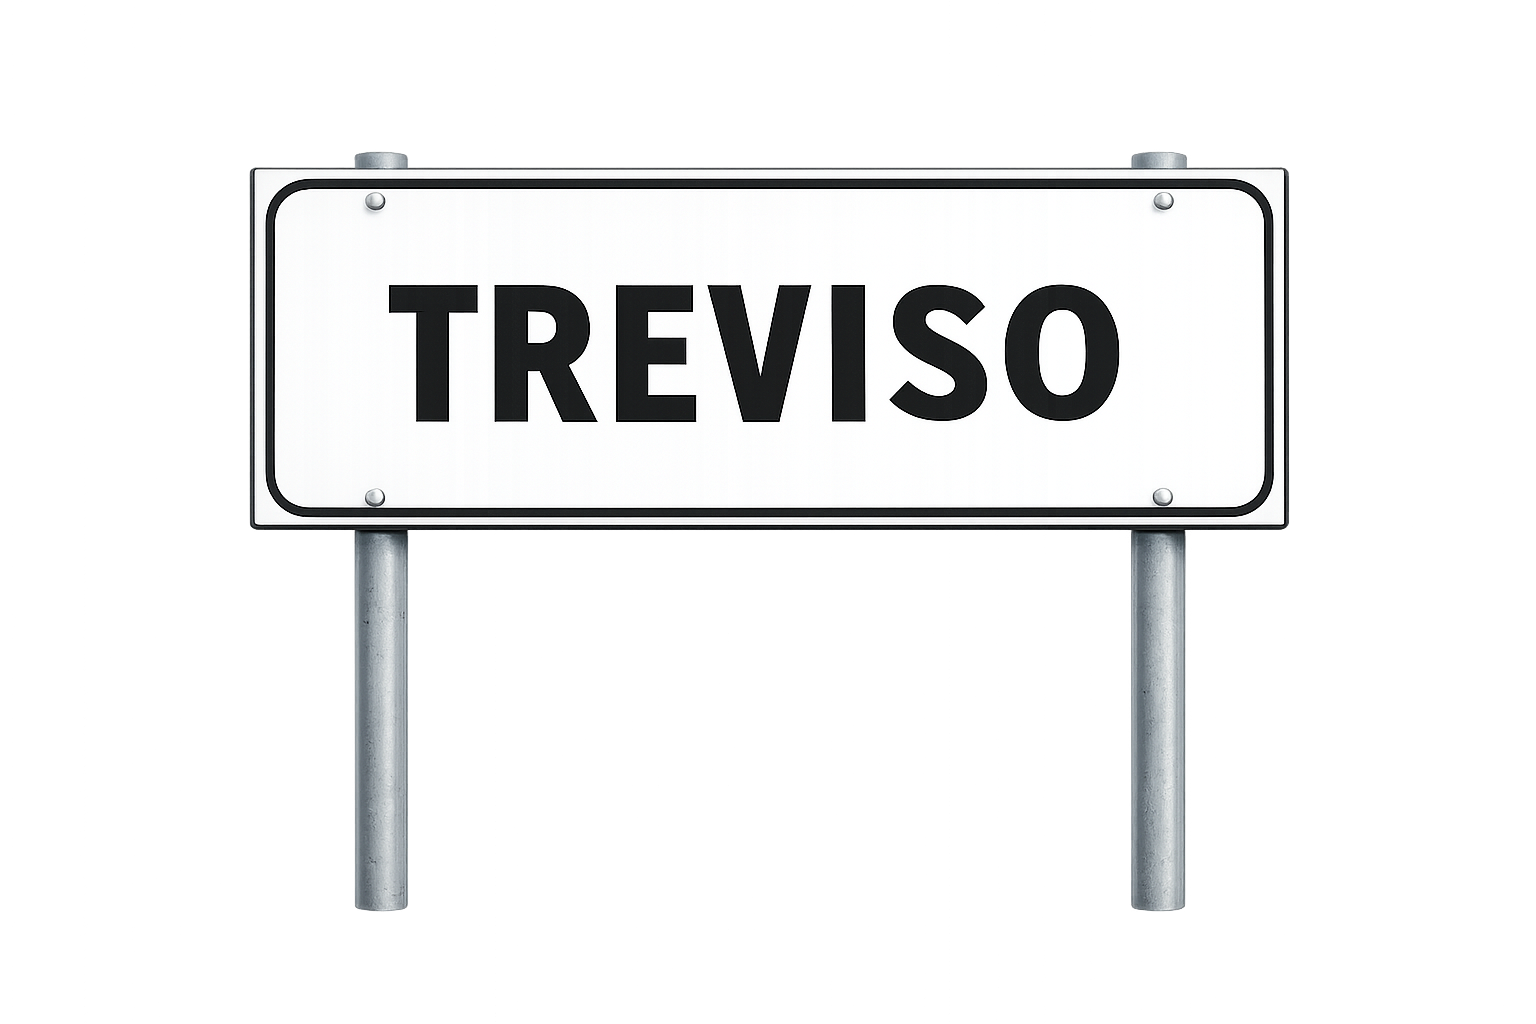
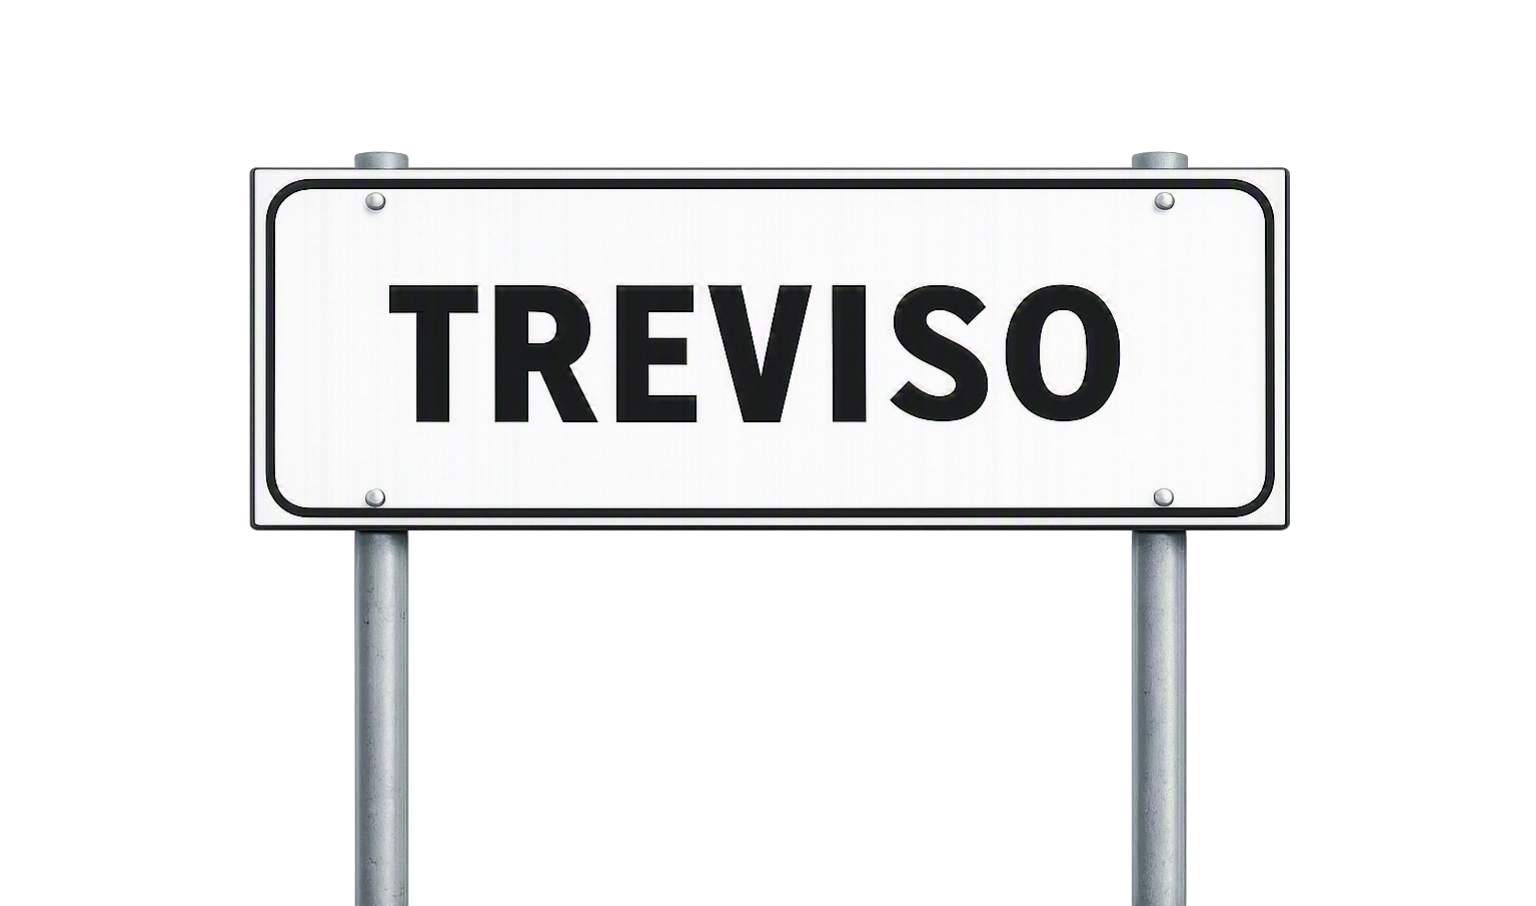
sistemazione bug

Changed region(s): [[0.1562, 0.1236, 0.8438, 0.649], [0.7188, 0.8653, 0.7812, 1.0], [0.2188, 0.8653, 0.2812, 1.0]]

diff --git a/traffic canal/traffic canal.html b/traffic canal/traffic canal.html
@@ -785,15 +785,30 @@ window.addEventListener("keydown",e=>{
   if(e.code==="ArrowLeft"||e.code==="KeyA")  moveLeft();
   if(e.code==="ArrowRight"||e.code==="KeyD") moveRight();
 });
-document.getElementById("touch-left").addEventListener("touchstart",e=>{e.preventDefault();if(state==="playing")moveLeft();},{passive:false});
-document.getElementById("touch-right").addEventListener("touchstart",e=>{e.preventDefault();if(state==="playing")moveRight();},{passive:false});
-canvas.addEventListener("touchstart",e=>{
-  e.preventDefault();
+document.getElementById("touch-left").addEventListener("touchstart",e=>{e.preventDefault();},{passive:false});
+document.getElementById("touch-right").addEventListener("touchstart",e=>{e.preventDefault();},{passive:false});
+
+let swipeStartX=null, swipeLastX=null;
+const SWIPE_THRESHOLD=30;
+
+window.addEventListener("touchstart",e=>{
   if(state!=="playing") return;
-  const r=canvas.getBoundingClientRect();
-  const tx=(e.touches[0].clientX-r.left)*(W/r.width);
-  if(tx<W/2) moveLeft(); else moveRight();
+  swipeStartX=e.touches[0].clientX;
+  swipeLastX=swipeStartX;
+},{passive:true});
+
+window.addEventListener("touchmove",e=>{
+  if(state!=="playing"||swipeLastX===null) return;
+  e.preventDefault();
+  const currentX=e.touches[0].clientX;
+  const dx=currentX-swipeLastX;
+  if(dx>SWIPE_THRESHOLD){ moveRight(); swipeLastX=currentX; }
+  else if(dx<-SWIPE_THRESHOLD){ moveLeft(); swipeLastX=currentX; }
 },{passive:false});
+
+window.addEventListener("touchend",()=>{
+  swipeStartX=null; swipeLastX=null;
+},{passive:true});
 </script>
 </body>
 </html>

diff --git a/salva el vignal/salva el vignal.html b/salva el vignal/salva el vignal.html
@@ -877,6 +877,8 @@ gc.addEventListener('mouseup',e=>{
 
   let rightTouchId = null;   // touch id holding right side
   let leftTouchId  = null;   // touch id dragging left side
+  let leftLastRawAngle = 0;  // last raw (unamplified) aim angle, used to compute deltas
+  const AIM_SENSITIVITY = 2.2; // >1 = piu' sensibile: piccoli movimenti del dito ruotano di piu' la mira
 
   function canvasCoords(touch){
     const r = gc.getBoundingClientRect();
@@ -903,7 +905,8 @@ gc.addEventListener('mouseup',e=>{
         if(leftTouchId === null){
           leftTouchId = t.identifier;
           // update aim immediately
-          bottle.angle = Math.atan2(cy - (bottle.y - bottle.h*.44), cx - bottle.x);
+          leftLastRawAngle = Math.atan2(cy - (bottle.y - bottle.h*.44), cx - bottle.x);
+          bottle.angle = leftLastRawAngle;
           extraBottles.forEach(eb=>{
             eb.angle = Math.atan2(cy - (eb.y - eb.h*.44), cx - eb.x);
           });
@@ -918,11 +921,15 @@ gc.addEventListener('mouseup',e=>{
     for(const t of e.changedTouches){
       if(t.identifier === leftTouchId){
         const {cx,cy} = canvasCoords(t);
-        // Update aim angle toward touch position
-        bottle.angle = Math.atan2(cy - (bottle.y - bottle.h*.44), cx - bottle.x);
-        extraBottles.forEach(eb=>{
-          eb.angle = Math.atan2(cy - (eb.y - eb.h*.44), cx - eb.x);
-        });
+        // Compute raw angle change since last move, then amplify it for a more sensitive feel
+        const rawAngle = Math.atan2(cy - (bottle.y - bottle.h*.44), cx - bottle.x);
+        let delta = rawAngle - leftLastRawAngle;
+        if(delta > Math.PI) delta -= Math.PI*2;
+        if(delta < -Math.PI) delta += Math.PI*2;
+        const amplified = delta * AIM_SENSITIVITY;
+        bottle.angle += amplified;
+        extraBottles.forEach(eb=>{ eb.angle += amplified; });
+        leftLastRawAngle = rawAngle;
       }
     }
   }, {passive:false});

diff --git a/ciapa el radicio/ciapa el radicio.html b/ciapa el radicio/ciapa el radicio.html
@@ -47,7 +47,7 @@ body, html {
 }
 
 #cartello-bg {
-    right: 5%; top: 35.3%;
+    right: 5%; bottom: 50%;
     width: 200px; max-width: 40%;
 }
 
@@ -86,7 +86,7 @@ body, html {
 /* Pause button */
 #pause-btn {
     position: absolute;
-    top: 10px; right: 14px;
+    top: 46px; right: 14px;
     padding: 6px 13px;
     font-size: 18px;
     font-family: 'Fredoka One', cursive;